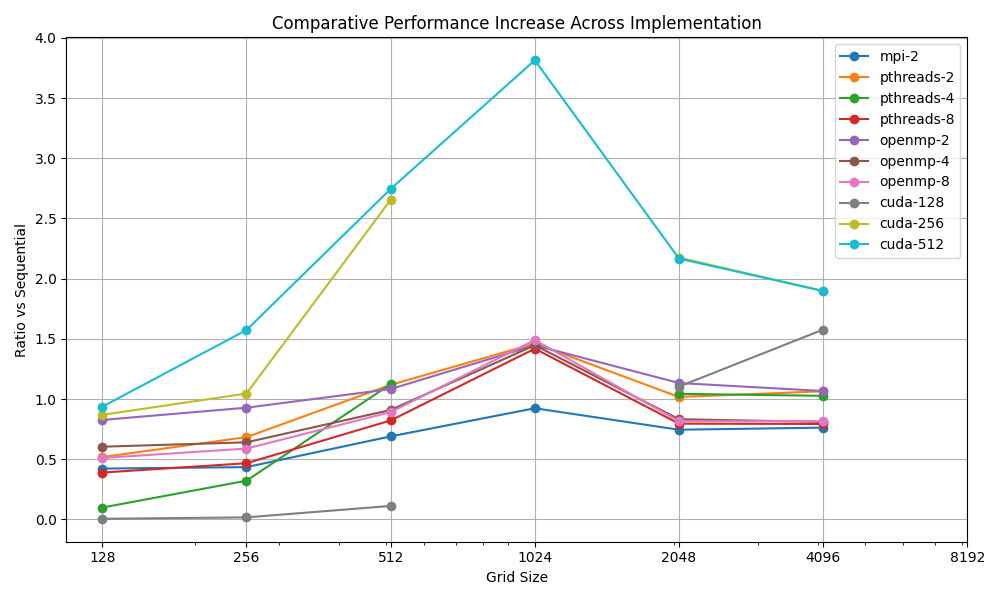
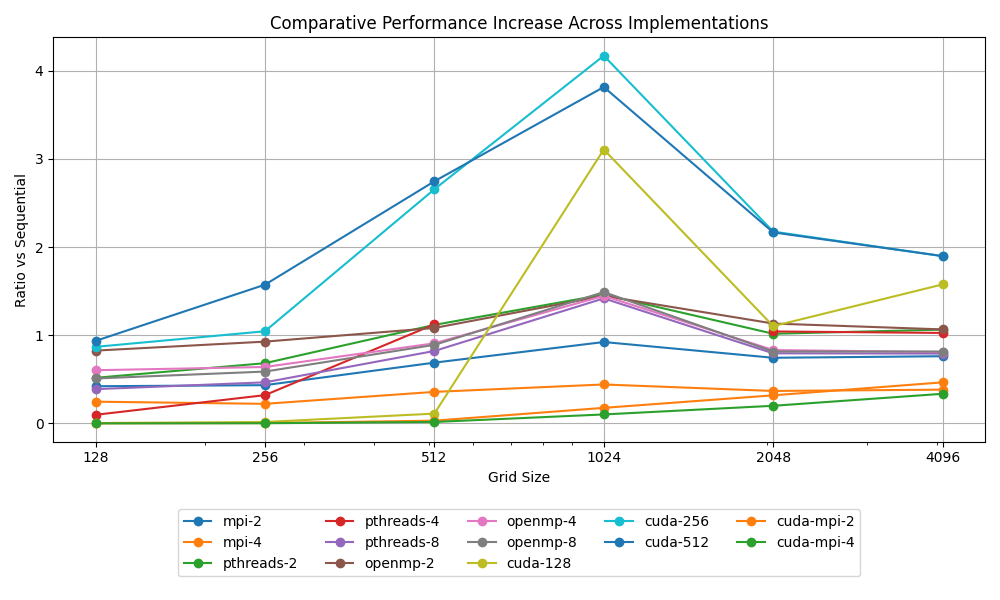
feat: added cuda +mpi data

diff --git a/report/sections/results.tex b/report/sections/results.tex
@@ -69,12 +69,13 @@ Analysis of the GPU performance reveals a parallel efficiency significantly high
 
 \begin{table}[htbp]
 	\centering
-	\caption{Distributed Scaling Comparison (2 Nodes)}
+	\caption{Distributed Scaling Comparison}
 	\label{tab:distributed_scaling}
 	\begin{tabular}{|l|c|c|}
 		\hline
 		\textbf{Nodes} & \textbf{Distributed CPU Runtime (ms)} & \textbf{Distributed GPU Runtime (ms)} \\ \hline
-		2 Nodes        & 1992.49                               & ---                                   \\ \hline
+		2 Nodes        & 1992.49                               & 3258.99                               \\ \hline
+		4 Nodes        & 3962.65                               & 4516.31                               \\ \hline
 	\end{tabular}
 \end{table}
 
@@ -84,7 +85,9 @@ This high overhead stems from the requirement to reconcile streamline connectivi
 Because each node only possesses local knowledge of its assigned sub-grid, resolving global paths requires iterative synchronization to converge the distributed Disjoint Set Union (DSU) structure.
 As the node count increases, the latency associated with these global reductions and data transfers becomes a dominant factor, limiting the overall scalability of the distributed CPU implementation.
 
-Speedup analysis for the 2-node distributed CPU implementation shows a value of $S \approx 0.76$.
+Speedup analysis for the distributed implementations shows a significant performance drop as the node count increases.
+The 2-node CPU implementation achieved a speedup of $S \approx 0.76$, which further degraded to $S \approx 0.38$ at 4 nodes.
+Similarly, the hybrid (MPI+CUDA) implementation achieved $S \approx 0.47$ at 2 nodes and $S \approx 0.34$ at 4 nodes.
 A speedup less than unity confirms that the communication overhead $O(n)$ grows faster than the parallel speedup for this algorithm.
 In the context of Amdahl's Law, the communication costs act as a "negative" parallel component that offsets the gains from distributed computation, resulting in a total execution time that exceeds the sequential baseline.
 
@@ -104,7 +107,7 @@ Table \ref{tab:perf_summary} provides a high-level comparison of the runtime and
 		OpenMP              & 1424.25               & 1.07             \\ \hline
 		OpenMPI             & 1992.49               & 0.76             \\ \hline
 		CUDA                & 800.17                & 1.90             \\ \hline
-		Hybrid (MPI+CUDA)   & ---                   & ---              \\ \hline
+		Hybrid (MPI+CUDA)   & 3258.99               & 0.47             \\ \hline
 	\end{tabular}
 \end{table}
 
